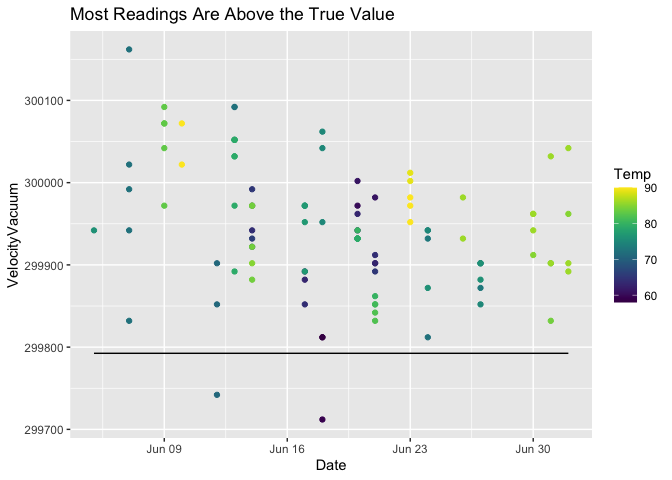
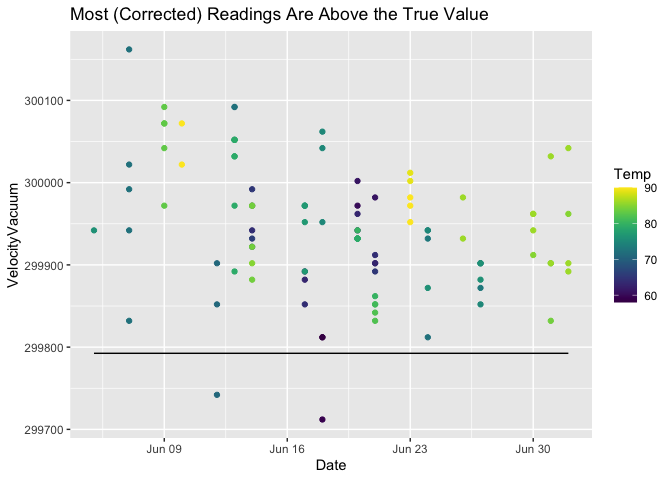
Updated with more units

Changed region(s): [[0.1562, 0.0, 0.7188, 0.0625]]

diff --git a/challenges/c02-michelson-assignment.md b/challenges/c02-michelson-assignment.md
@@ -268,8 +268,8 @@ LIGHTSPEED_PM
 
 **Observations**:
 
-  - Michelson estimated his uncertainty as 51, but the real error was
-    about 151 below the real value, so he underestimated the
+  - Michelson estimated his uncertainty as 51 km/s, but the real error
+    was about 151 km/s below the real value, so he underestimated the
     uncertainty.
 
 **q4** You have access to a few other variables. Construct a few
@@ -283,7 +283,7 @@ df_q2 %>%
   ggplot() +
   geom_point(mapping = aes(x = Date, y = VelocityVacuum, color = Distinctness)) +
   geom_line(mapping = aes(x = Date, y = 299792.5)) +
-  ggtitle("No Clear Trend for Distinctness")
+  ggtitle("No Clear Trend for Distinctness in (Corrected) Readings")
 ```
 
 ![](c02-michelson-assignment_files/figure-gfm/visualization-distinct-1.png)<!-- -->
@@ -305,7 +305,7 @@ df_q2 %>%
   geom_point(mapping = aes(x = Date, y = VelocityVacuum, color = Temp)) +
   geom_line(mapping = aes(x = Date, y = 299792.5)) +
   scale_color_viridis() + 
-  ggtitle("Most Readings Are Above the True Value")
+  ggtitle("Most (Corrected) Readings Are Above the True Value")
 ```
 
 ![](c02-michelson-assignment_files/figure-gfm/visualization-temp-1.png)<!-- -->
@@ -323,7 +323,7 @@ df_q2 %>%
   geom_point(mapping = aes(x = Date, y = VelocityVacuum, color = Temp)) +
   geom_line(mapping = aes(x = Date, y = 299792.5)) +
   scale_color_viridis() +
-  ggtitle("Above a Temperature of 71, All Readings Are Above the Real Value")
+  ggtitle("Above Temperature 71, All (Corrected) Readings Are Above the Real Value")
 ```
 
 ![](c02-michelson-assignment_files/figure-gfm/visualization-temp-high-1.png)<!-- -->
@@ -392,13 +392,51 @@ df_q2 %>%
     temperature may have helped get more accurate data. Doing a more
     rigorous temperature correction may have helped as well.
 
+<!-- end list -->
+
+``` r
+df_q2 %>%
+  ggplot() +
+  geom_point(mapping = aes(x = Date, y = Velocity, color = Temp)) +
+  geom_line(mapping = aes(x = Date, y = 299792.5)) +
+  scale_color_viridis() +
+  ggtitle("Even Before Correction, Most Readings Are Above the Real Value")
+```
+
+![](c02-michelson-assignment_files/figure-gfm/visualization-pre-correction-1.png)<!-- -->
+
+**Observations**:
+
+  - Even before the correction for measurement in air rather than
+    vacuum, most readings were above the real value.
+
+<!-- end list -->
+
+``` r
+df_q2 %>%
+  summarise(Uncorrected_Mean = mean(Velocity))
+```
+
+    ## # A tibble: 1 x 1
+    ##   Uncorrected_Mean
+    ##              <dbl>
+    ## 1          299852.
+
+**Observations**:
+
+  - Before correction for measurement in air, the mean is 299852.4 km/s.
+    This is only 59.9 km/s below the real value, and almost within
+    Michelson’s predicted uncertainty. But values were corrected for
+    measurement in air by adding 94 km/s, which skewed the estimate
+    high.
+
 **Summary of Observations**:
 
-  - High temperature does seem to skew the average up. Perhaps using a
+  - High temperature does seem to skew the mean up. Perhaps using a
     correction of temperature by point, rather than correcting all
-    values by adding +94 km/s based on the average temperature, would
-    have helped. Taking more readings at lower temperatures, below 71,
-    may also have helped.
+    values by adding +94 km/s based on the mean temperature, would have
+    helped. Taking more readings at lower temperatures, below 71, may
+    also have helped.
 
 ## Bibliography
 
